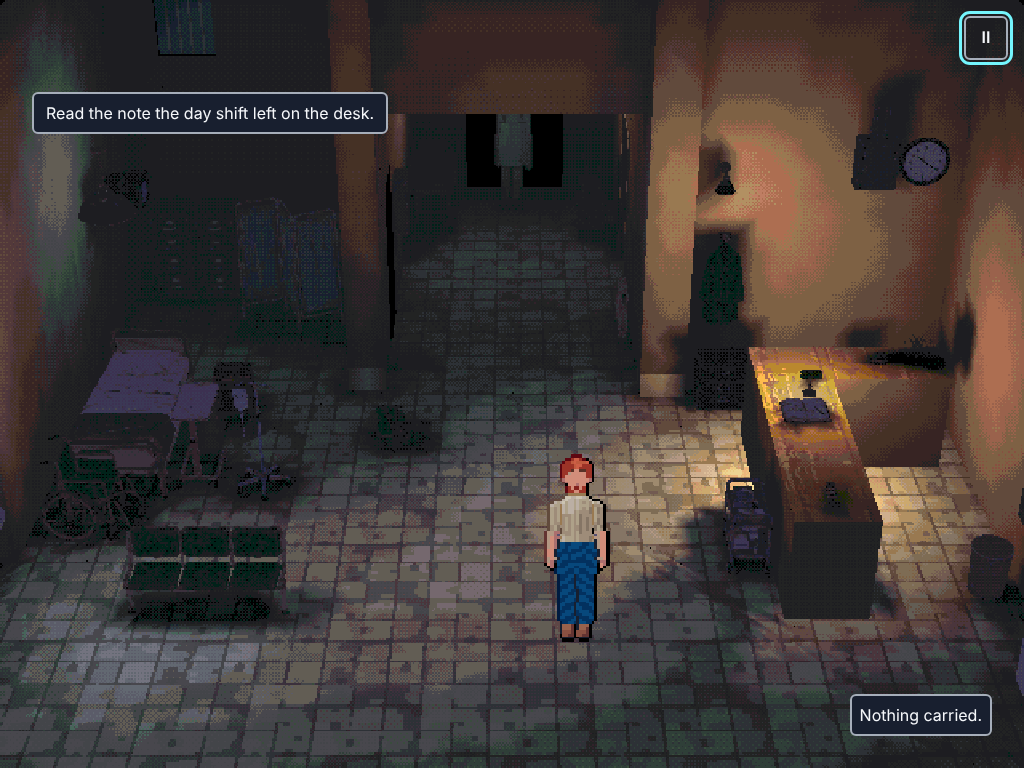
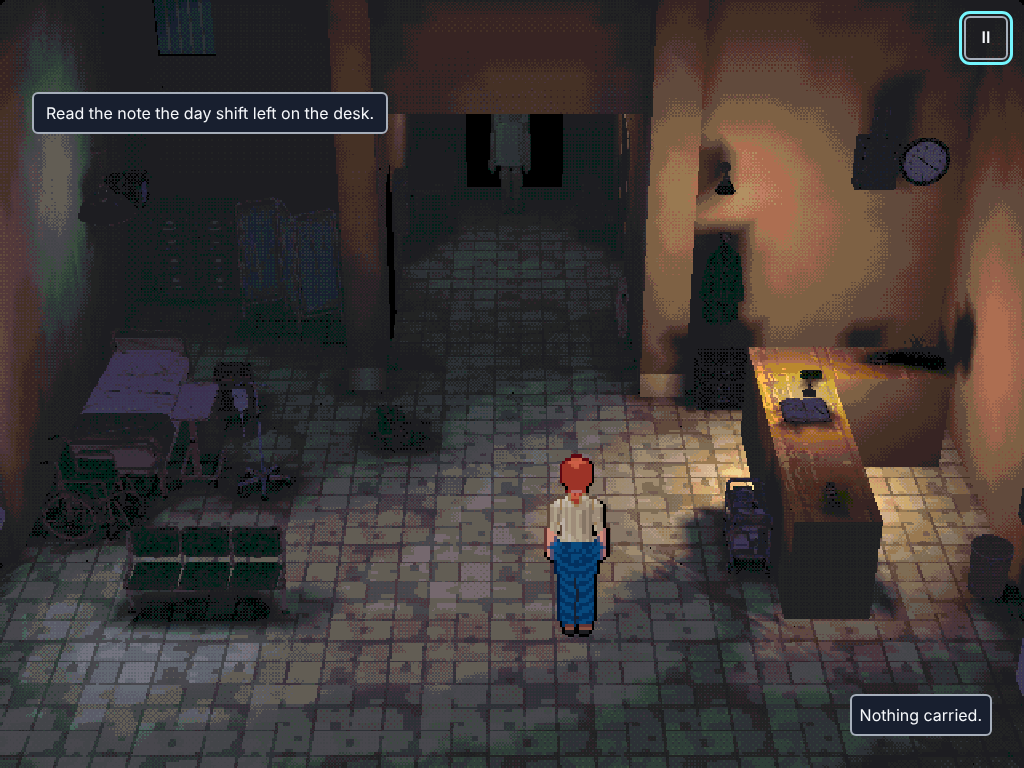
fix(the-last-light): the painted figures face the way the game says
The game's heading is the sim's (0 faces +z, the old spawn's pi faces north); the kit's painted figure has its own zero, half a turn away.
Ada was drawn facing the camera at the spawn, where the old game shows her back, and walked backwards in the picture; the creature too.
The audit records the three things seen in the last frame, Ada's reading against the floor in numbers, and what still differs in the hall.

Claude-Session: https://claude.ai/code/session_01HNdX7Mk6vp4VwudmrbboWX

Changed region(s): [[0.5312, 0.5938, 0.5938, 0.8438], [0.4688, 0.1562, 0.5, 0.2188]]

diff --git a/games/the-last-light/tests/unit/features/figures/figure-view.test.ts b/games/the-last-light/tests/unit/features/figures/figure-view.test.ts
@@ -1,5 +1,5 @@
 import { describe, expect, it } from 'vitest'
-import { adaMoving, adaYaw, stepped, walkedYaw } from '#src/features/figures/figure-view.ts'
+import { adaMoving, adaYaw, kitYaw, stepped, walkedYaw } from '#src/features/figures/figure-view.ts'
 
 // What the sim says a character is doing, as the painted figure shows it: the way she faces, and whether she walks (her legs move)
 // or stands.
@@ -14,6 +14,34 @@ describe('which way a figure faces', () => {
   it('a figure with no heading of its own faces the way it last moved, and keeps it standing still', () => {
     expect(walkedYaw(at(1, 0), at(0, 0), 0)).toBeCloseTo(Math.PI / 2)
     expect(walkedYaw(at(1, 0), at(1, 0), 2)).toBe(2)
+  })
+})
+
+/** Where a painted figure faces on the plan for the yaw it is given: the kit's rule, an entity's yaw 0 faces -z (north) and turns about up. */
+const facingOf = (yaw: number) => ({ x: -Math.sin(yaw), z: -Math.cos(yaw) })
+
+describe('the painted figure faces where the game says', () => {
+  // The game's heading is the sim's: 0 faces +z (south, toward the play camera), a quarter turn faces east (+x), and a step is
+  // atan2(dx, dz). The kit's figure has its own zero: half a turn from that.
+  it('walking north draws a figure with its back to the camera, as the old game did', () => {
+    const north = facingOf(kitYaw(walkedYaw(at(0, -1), at(0, 0), 0)))
+    expect(north.x).toBeCloseTo(0)
+    expect(north.z).toBeCloseTo(-1)
+  })
+
+  it('draws every heading toward where it points', () => {
+    for (const [dx, dz] of [
+      [1, 0],
+      [0, 1],
+      [-1, 0],
+      [1, 1],
+      [-1, 2],
+    ]) {
+      const norm = Math.hypot(dx as number, dz as number)
+      const drawn = facingOf(kitYaw(walkedYaw(at(dx as number, dz as number), at(0, 0), 0)))
+      expect(drawn.x).toBeCloseTo((dx as number) / norm)
+      expect(drawn.z).toBeCloseTo((dz as number) / norm)
+    }
   })
 })
 

diff --git a/games/the-last-light/src/features/figures/figure-view.ts b/games/the-last-light/src/features/figures/figure-view.ts
@@ -26,6 +26,14 @@ export type MovingOf = (curr: Components, prev: Components | undefined) => boole
 /** The characters the stage can place, by who a script calls them (`player`, an agent's id). */
 export type Actors = Map<string, ActorView>
 
+/**
+ * The yaw the kit's painted figure wants for the game's heading. The game's heading is the sim's (`atan2(dx, dz)`: 0 faces +z,
+ * toward the play camera, and the old spawn's pi faces north, away from it); the kit's entity yaw 0 faces -z, half a turn from that.
+ * Given the heading as it is, a figure faced the opposite way to where she walked and stood showing her face at the spawn, where the
+ * old game shows her back.
+ */
+export const kitYaw = (heading: number): number => heading + Math.PI
+
 /** Ada faces the way her `yaw` says (the sim's heading of her last step). */
 export const adaYaw: YawOf = (curr, _prev, was) => {
   const yaw = curr.ada?.yaw
@@ -79,12 +87,13 @@ export function figureView(look: FigureLook, actors: Actors): View3dFactory {
     const withPose = (curr: Components, prev: Components | undefined, held?: Placed): Components => {
       const at = curr[PLACE]
       yaw = held?.yaw ?? look.yawOf(curr, prev, yaw)
-      const pose = held ?? {
-        x: Number(at?.x ?? 0),
-        y: 0,
-        z: Number(at?.z ?? 0),
-        yaw,
-        moving: look.movingOf(curr, prev),
+      const pose = {
+        x: held?.x ?? Number(at?.x ?? 0),
+        y: held?.y ?? 0,
+        z: held?.z ?? Number(at?.z ?? 0),
+        // The game's heading kept as it is; the kit's figure turns from its own zero.
+        yaw: kitYaw(yaw),
+        moving: held?.moving ?? look.movingOf(curr, prev),
       }
       return { ...curr, [POSE]: pose }
     }

diff --git a/docs/superpowers/audits/2026-11-12-last-light-prologue-first-draw/README.md b/docs/superpowers/audits/2026-11-12-last-light-prologue-first-draw/README.md
@@ -265,7 +265,7 @@ Reading the table:
 
 ### What was done about it (session 5)
 
-Frames: `ours-meshes-play-1024x768.png`, `ours-meshes-cutscene-1024x768.png` (Chromium on SwiftShader, a desktop context with no touch, so no
+Frames: `ours-meshes-play-1024x768.png`, `ours-meshes-cutscene-1024x768.png` (re-shot after the facing fix below; Chromium on SwiftShader, a desktop context with no touch, so no
 buttons over the frame), `side-by-side-meshes-play.png` and `side-by-side-meshes-cutscene.png` (old left, ours right), and
 `generated-against-meshes-play.png` (the same frame with the generated props left, the meshes right).
 
@@ -299,3 +299,62 @@ to 41.8 (0.88), the counter and what stands on it 73.1 to 63.4 (0.87). The model
 model's texture on a `FlatMaterial` (a plain texture, as the pieces with a photo tile have) and call `light.bake(mesh, { textured: true,
 albedo, shadeSteps: 1 - room.light })` as the piece loop does, since the mesh is already in world space with a geometry of its own.
 Not made: it is a framework decision for the Owner's eye on the frame.
+
+
+## Three things seen in the last frame (stage 4 session 5)
+
+**4a. The row of six large W S A D Q E buttons.** They are the framework's own touch controls: `keys()` makes one button for each bound key
+and `PlayScreen` draws them when the player is touching (`tracker.method === 'touch'`). They were in the frame because the journeys'
+`sizes.phone` is an iPhone context with a coarse pointer, which the framework rightly reads as touch; the frame shoot is a desktop context now
+(`tests/e2e/frames.test.ts`: no touch, device scale 1), and its frames have no buttons. What was not gated was the game's own Lamp and Skip
+buttons (`PlayControls.svelte`): a `hud.overlay` component could not see the input method. **`PlayHandle.inputMethod`** (core, `fa496784`,
+test first, `patch` changeset) gives it, and the two buttons now show only under touch (`9fc00ff1`; tests for touch, keyboard and gamepad, and for
+a player who changes from one to the other). Layout is unchanged: the container's size moves them, the input mode says whether they are there.
+Still to be shot, as the coordinator asked: one phone-size touch frame, to see the six buttons and Lamp and Skip over the objective and the inventory.
+
+**4b. Ada against the room.** First, a fault of ours that explains much of "she does not look like the same character": **she faced the
+wrong way.** The game's heading is the sim's (`atan2(dx, dz)`, 0 faces +z toward the play camera, the old spawn's pi faces north) and the kit's
+painted figure has its own zero, half a turn away (an entity's yaw 0 faces -z). The game passed its heading as it was, so she was drawn
+facing the camera at the spawn, where the old game shows her back, and she walked backwards in the picture (the creature too). `kitYaw` turns
+it at the one place the figure is posed (`features/figures/figure-view.ts`), for the sim's heading and for a cutscene's facing alike; the test
+that failed first walks a figure north and checks she is drawn facing away. See `ada-old-against-ours-back.png` (old left, ours right).
+The cutscene's other facings (a quarter turn to the board, and so on) are not checked against the old game; the opening's is.
+
+Her reading, measured on the play frame at the spawn (mean over boxes inside the figure, and over the floor on the same rows and around her
+feet; luma 0 to 255, saturation 0 to 1 as HSV):
+
+| | Old, graded | Old, no LCD and dither | Ours now |
+|---|---|---|---|
+| Her shirt, luma (sat) | 40.0 (0.33) | 44.7 (0.31) | 138.3 (0.25) |
+| Her trousers, luma (sat) | 39.8 (0.49) | 44.0 (0.46) | 49.4 (0.91) |
+| Her hair, luma (sat) | 41.4 (0.41) | 44.5 (0.35) | 73.0 (0.69) |
+| The floor on her rows and at her feet, luma | 54.2 | 60.4 | 84.4 |
+| Her (shirt and trousers) over the floor | 0.74 | 0.73 | **1.11** |
+
+The old Ada is a dark figure against the floor (0.74: darker than the floor under her, a silhouette); ours is brighter than the floor under her
+(1.11) and her trousers are saturated (0.91 against 0.49). **The kit's bound is that a figure is no brighter than 1.1 times its ring** (`HOT`
+in the reads): by this rough measure (boxes, not the kit's depth-buffer mask) she is at it and a hair over, so the kit's exposure does not
+clearly hold her inside its bound; it was never measured on this level (nothing in the game or the kit's browser tests measures a figure's read: `figureReads`
+needs the frame's two depth buffers, which no test gives it). **How much is the missing grade and vignette:** the old frame with the LCD
+and dither off is 10% brighter than with them (44.3 against 39.9 for her, 60.4 against 54.2 for the floor), and the retro grade (palette, fade,
+saturation 0.85, warmth) and the vignette are in both old frames, so these two frames cannot separate them. The floor tells the order: ours is
+1.4 to 1.6 times the old floor, which the grade and vignette plausibly account for. They cannot account for her being above her floor
+where the old Ada is 0.74 of hers: that difference is the clothes (a cream tee in place of the dark maroon waistcoat and shirt, held with the
+wardrobe) and the sprite light (the old figure sat in the room's own light; ours is lit by the painter's sprite light at the lamps' pools).
+Nothing was changed for this: it is a number for the Owner and for the wardrobe work, and any darkening of her by hand would be a guess.
+
+**4c. The hall's dressing after the meshes.** Present now, from the old game's own models: the waiting bench with its three seats, the
+wheelchair, the bed with the overbed table, the drip stand, the filing cabinets, the drawers, the clock, the wall television, the coat hook, the
+trolley, the bins, the plants, the folding screen and the chair on its side. Still different, and why:
+- The noticeboard (the cork board with notes behind the desk), the posters, the notes and papers on the floor and walls, and the scratches:
+  they are decals and lettering the old game's dressing rules placed; the level format has `decals` and `lettering`, and the prologue's level has
+  none authored (a hand job for the dressing, or the world kit's dressing: workstream 4).
+- The ward's curtains (green, on rails), the ward curtains' fire: not props of the old table; the old game drew them as dressing, and the kit
+  has no curtain prop.
+- The teal glazed-tile wainscot and the checker tint of the old floor: the kit has no such swatch (named in "What is left" above).
+- The moonlight slats across the floor: the old game's window light; the level has the moon lamps (`neon`) and no light shaft (`shaft` on a lamp).
+- The supply room's shelving: the stock boxes stand in the air; the old shelf boxes were colliders and shelf geometry the level lacks.
+- The corner minimap and the objective marker: the HUD (editor ledger row 15), not the dressing.
+- The look: the LCD panel, the vignette and the retro grade (held: `claude/builders-look-effects`), and Ada's wardrobe (held: FigureBuilder's wardrobe branch).
+- The models take the room's light by a flat material and not by the bake: they read 0.65 to 0.88 of what the generated props did (see above), which
+  is a framework decision waiting on the coordinator.
